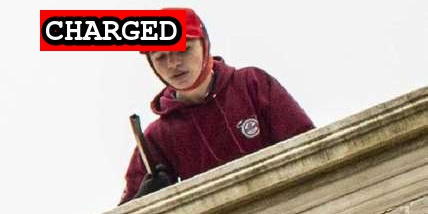
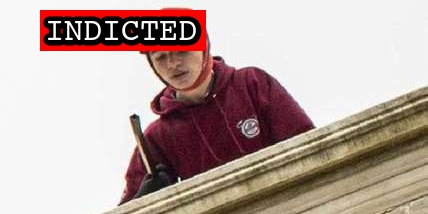
More indictments

Changed region(s): [[0.0911, 0.028, 0.486, 0.2523]]

diff --git a/docs/_suspects/elias-irizarry.md b/docs/_suspects/elias-irizarry.md
@@ -4,13 +4,13 @@ lastName: Irizarry
 hashtag: EliasIrizarry
 aka:
 residence: South Carolina
-status: Charged
+status: Indicted
 date: 2021-03-15
 charged: 2021-03-15
-indicted:
-convicted: 
-sentenced: 
-dismissed: 
+indicted: 2021-12-15
+convicted:
+sentenced:
+dismissed:
 deceased:
 plea_hearing:
 sentencing:
@@ -36,6 +36,8 @@ videos:
 charges:
 sentence:
 ---
+
 - [News Report](https://abcnews4.com/news/local/citadel-cadet-charged-in-capitol-riot-probe-bonds-out-of-jail-1st-court-date-set)
 - [Statement of Facts](https://www.justice.gov/usao-dc/case-multi-defendant/file/1386301/download)
 - [Information](https://www.justice.gov/usao-dc/case-multi-defendant/file/1386306/download)
+- [Indictment](https://www.justice.gov/usao-dc/case-multi-defendant/file/1460131/download)

diff --git a/docs/_suspects/elliot-bishai.md b/docs/_suspects/elliot-bishai.md
@@ -4,10 +4,10 @@ lastName: Bishai
 hashtag: ElliotBishai
 aka:
 residence: South Carolina
-status: Charged
+status: Indicted
 date: 2021-03-15
 charged: 2021-03-15
-indicted:
+indicted: 2021-12-15
 convicted:
 sentenced:
 dismissed:
@@ -36,6 +36,8 @@ videos:
 charges:
 sentence:
 ---
+
 - [News Report](https://www.thestate.com/news/local/crime/article249973884.html)
 - [Statement of Facts](https://www.justice.gov/usao-dc/case-multi-defendant/file/1386286/download)
 - [Information](https://www.justice.gov/usao-dc/case-multi-defendant/file/1386291/download)
+- [Indictment](https://www.justice.gov/usao-dc/case-multi-defendant/file/1460131/download)
